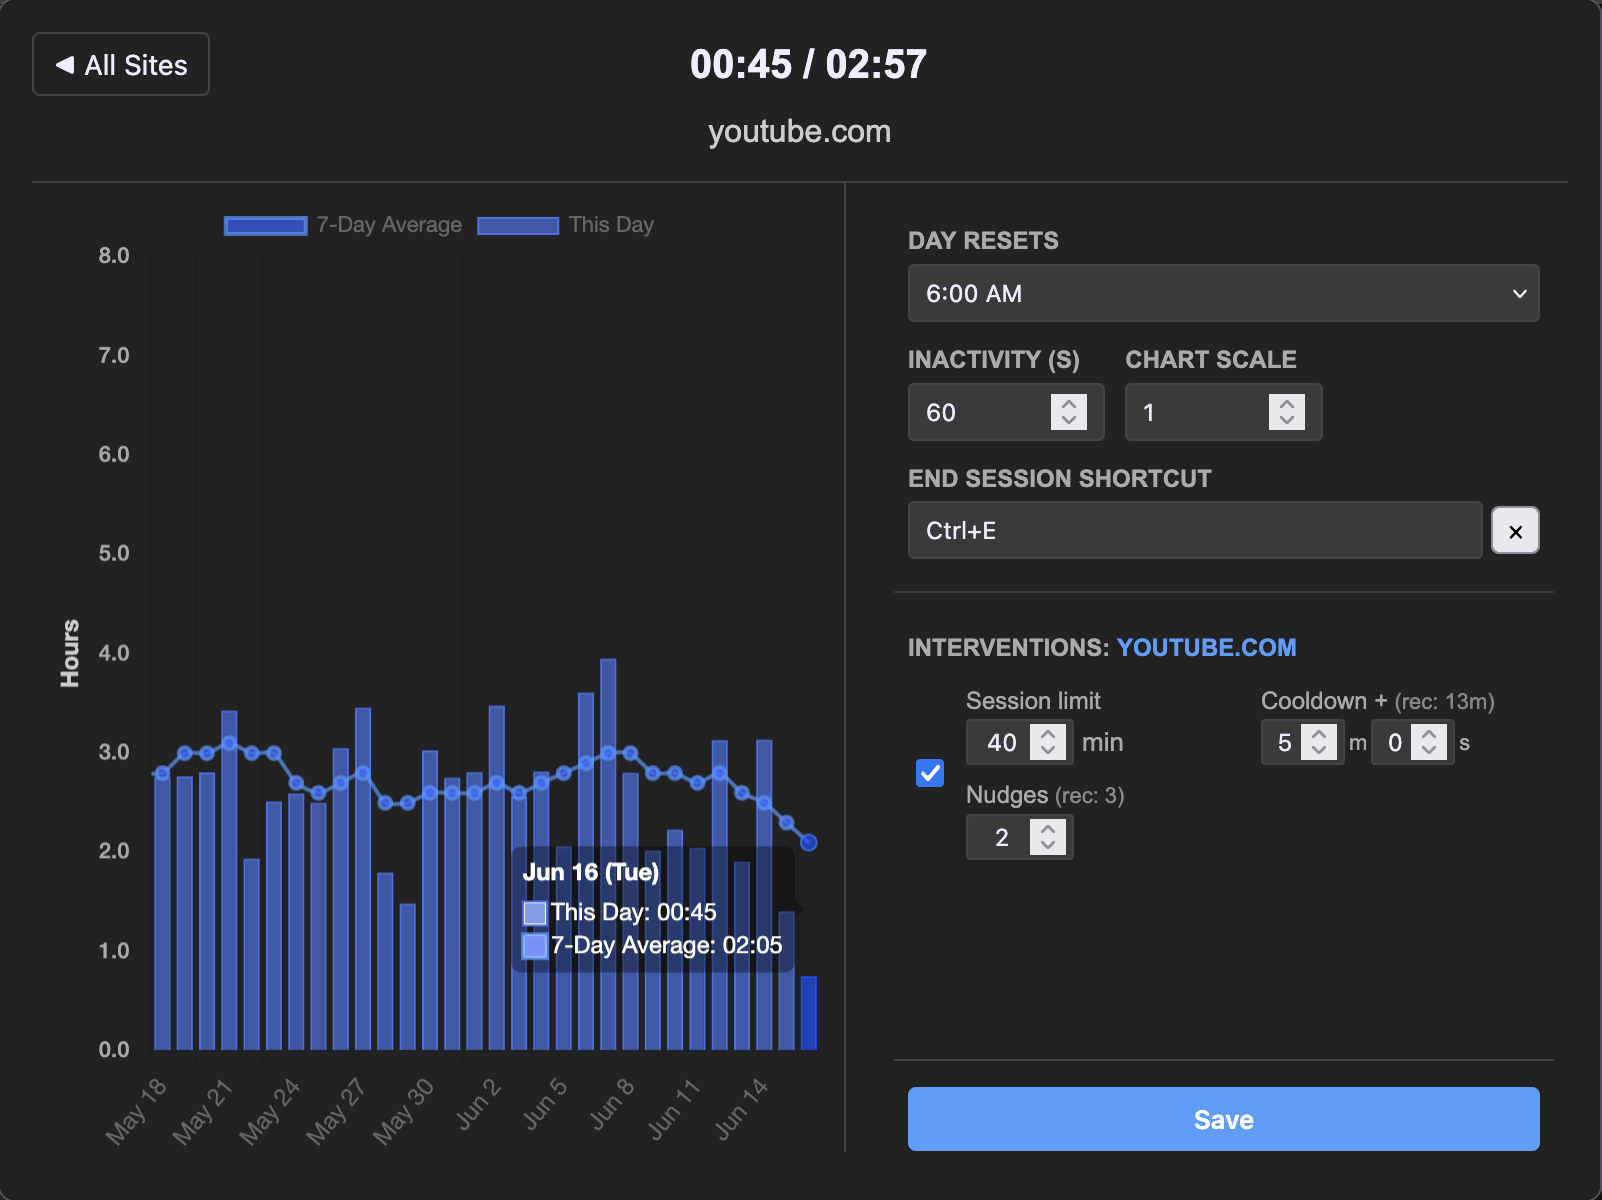
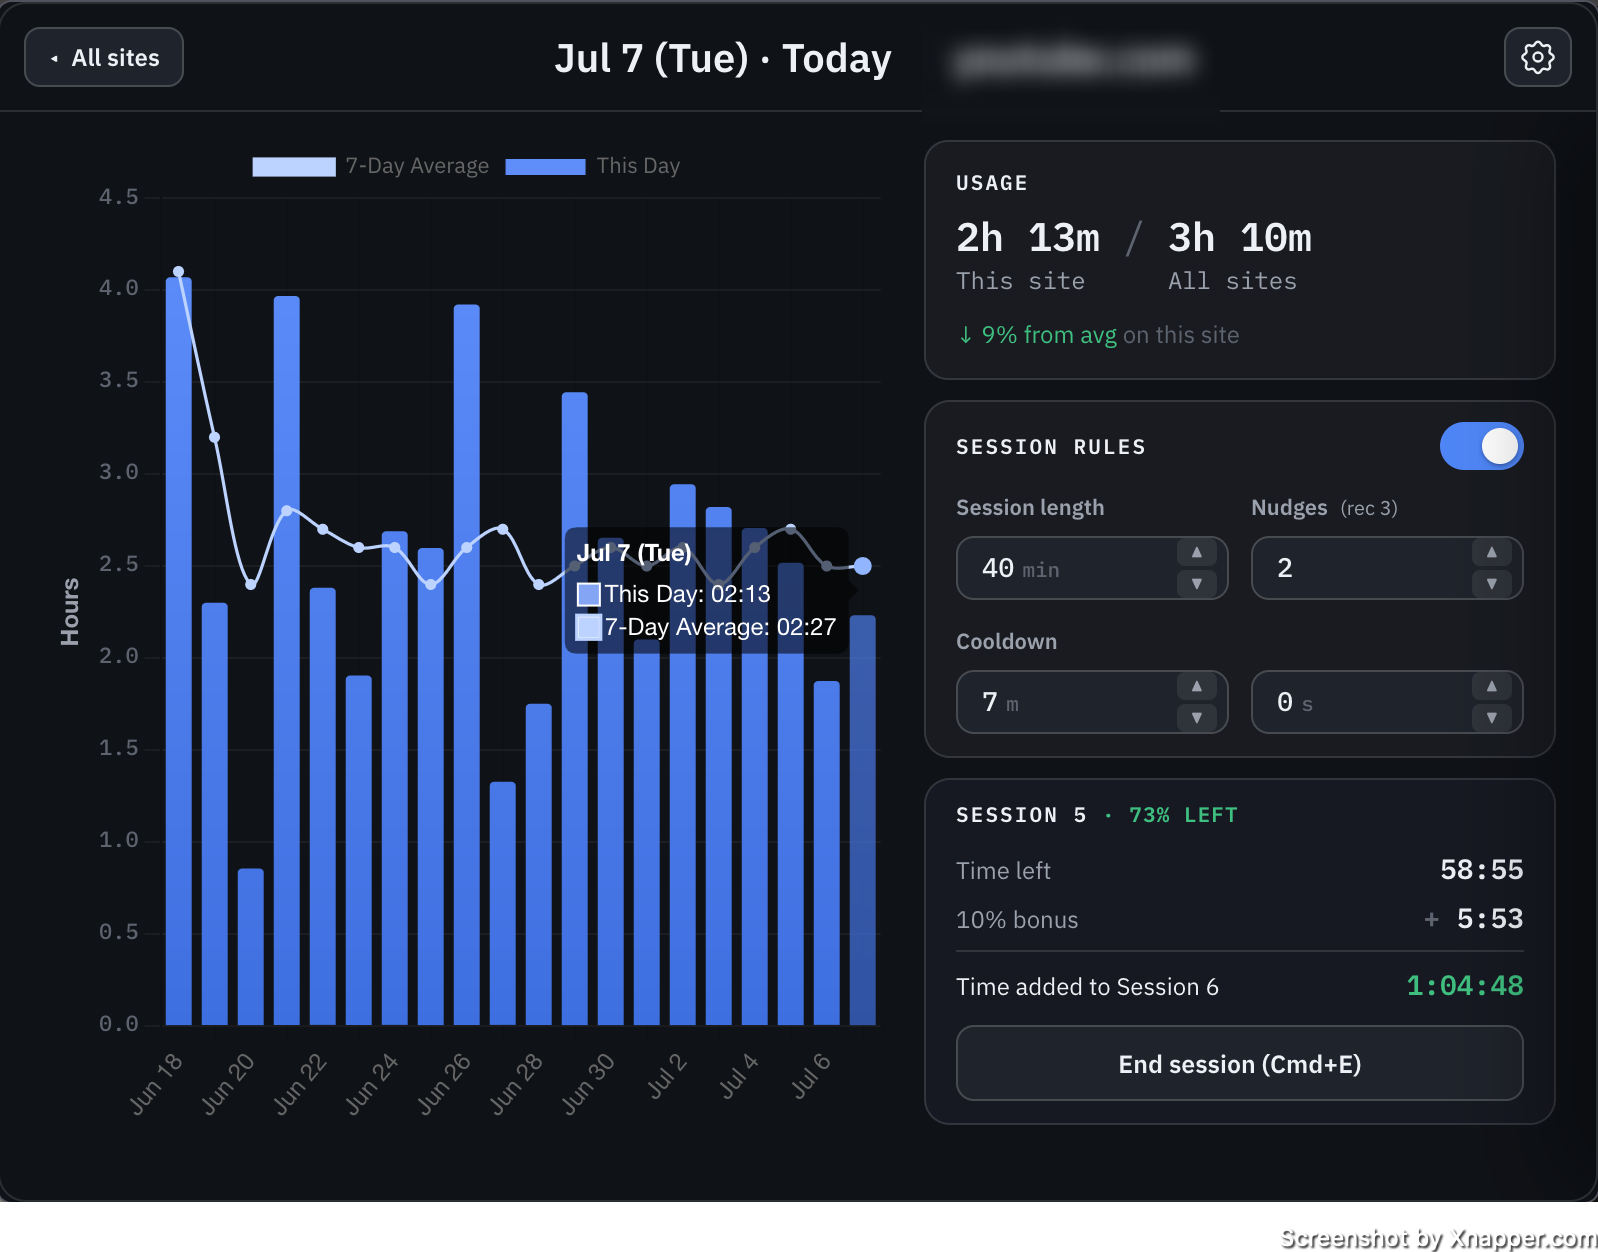
docs: refresh screenshots and captions for the redesigned popup

diff --git a/README.md b/README.md
@@ -9,9 +9,9 @@ flexible — focused sessions, gentle nudges, and cooldowns when a limit is reac
 
 ## Screenshots
 
-| Usage overview | Single site |
+| All sites | Single site |
 |:---:|:---:|
-| ![Usage overview — 30-day chart and top domains](extension/images/GeneralView.png) | ![Single-site breakdown](extension/images/SingleDomainView.png) |
+| ![All-sites view — daily usage chart with 7-day average and a per-site breakdown](extension/images/GeneralView.png) | ![Single-site view — usage vs. all sites, session rules, and the live session card](extension/images/SingleDomainView.png) |
 
 ## Install
 